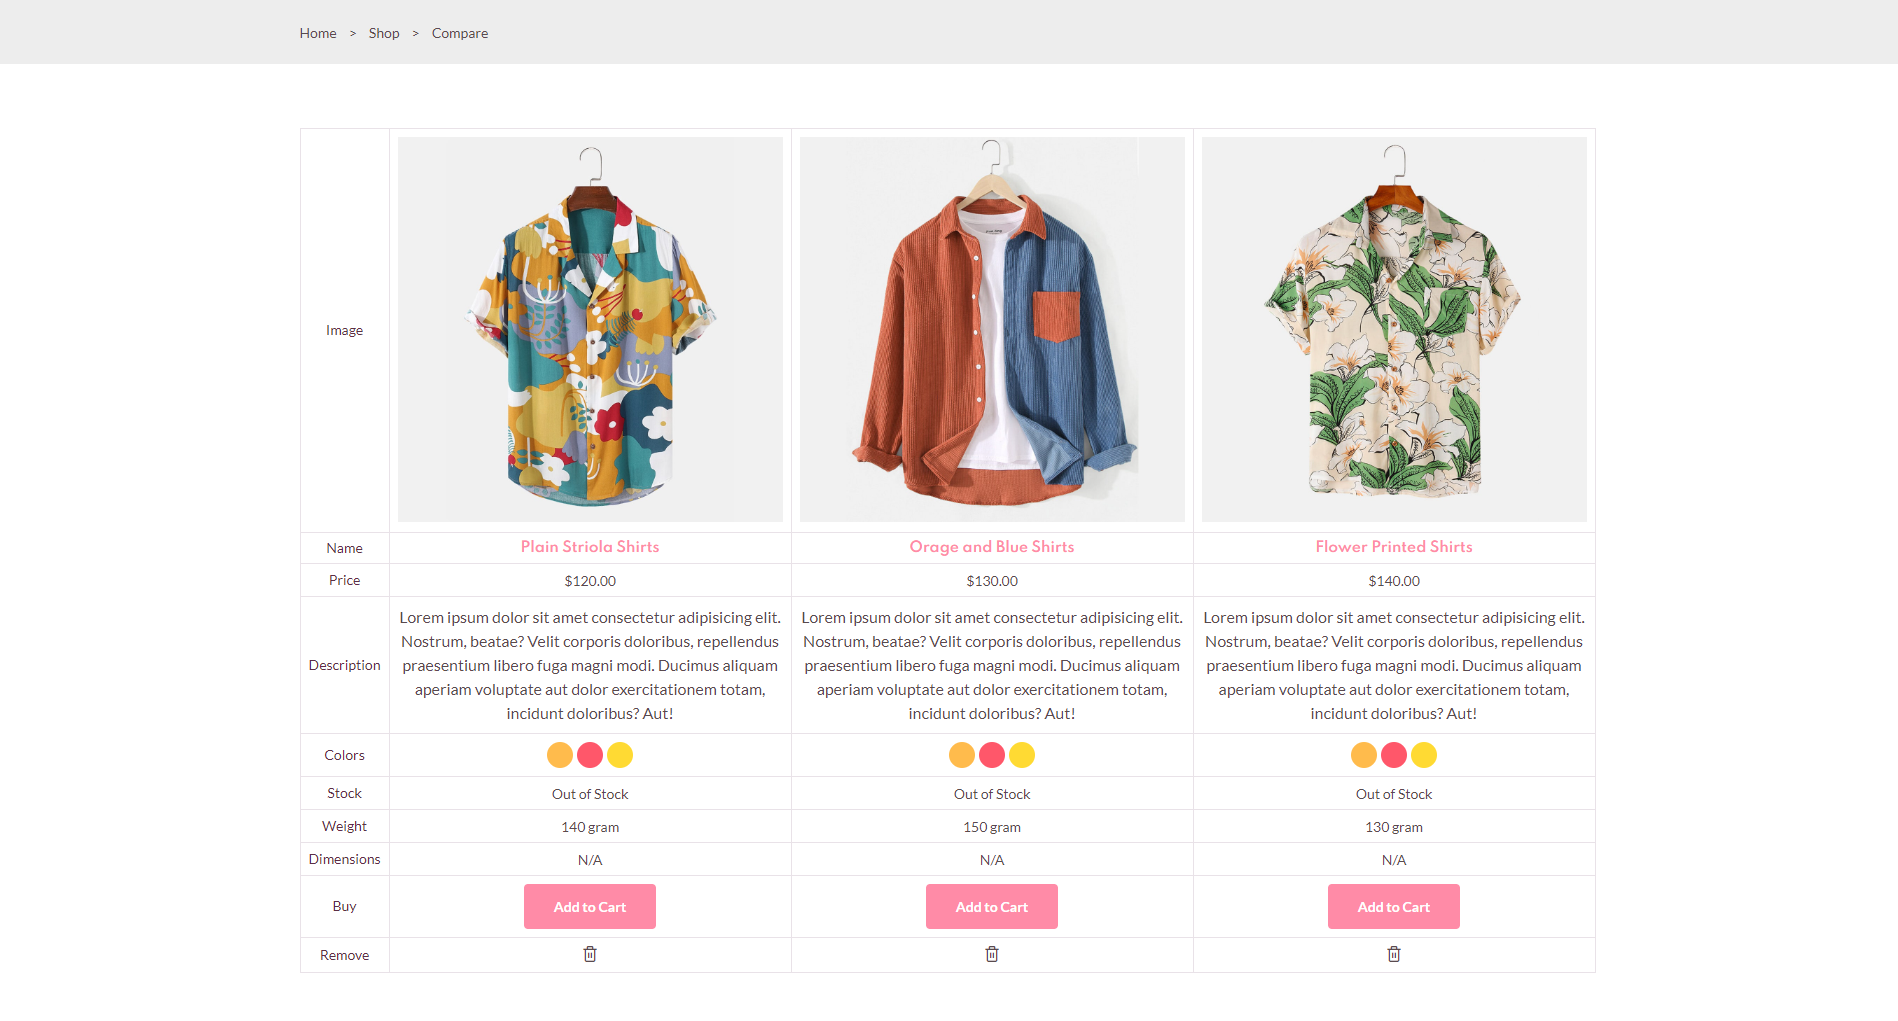
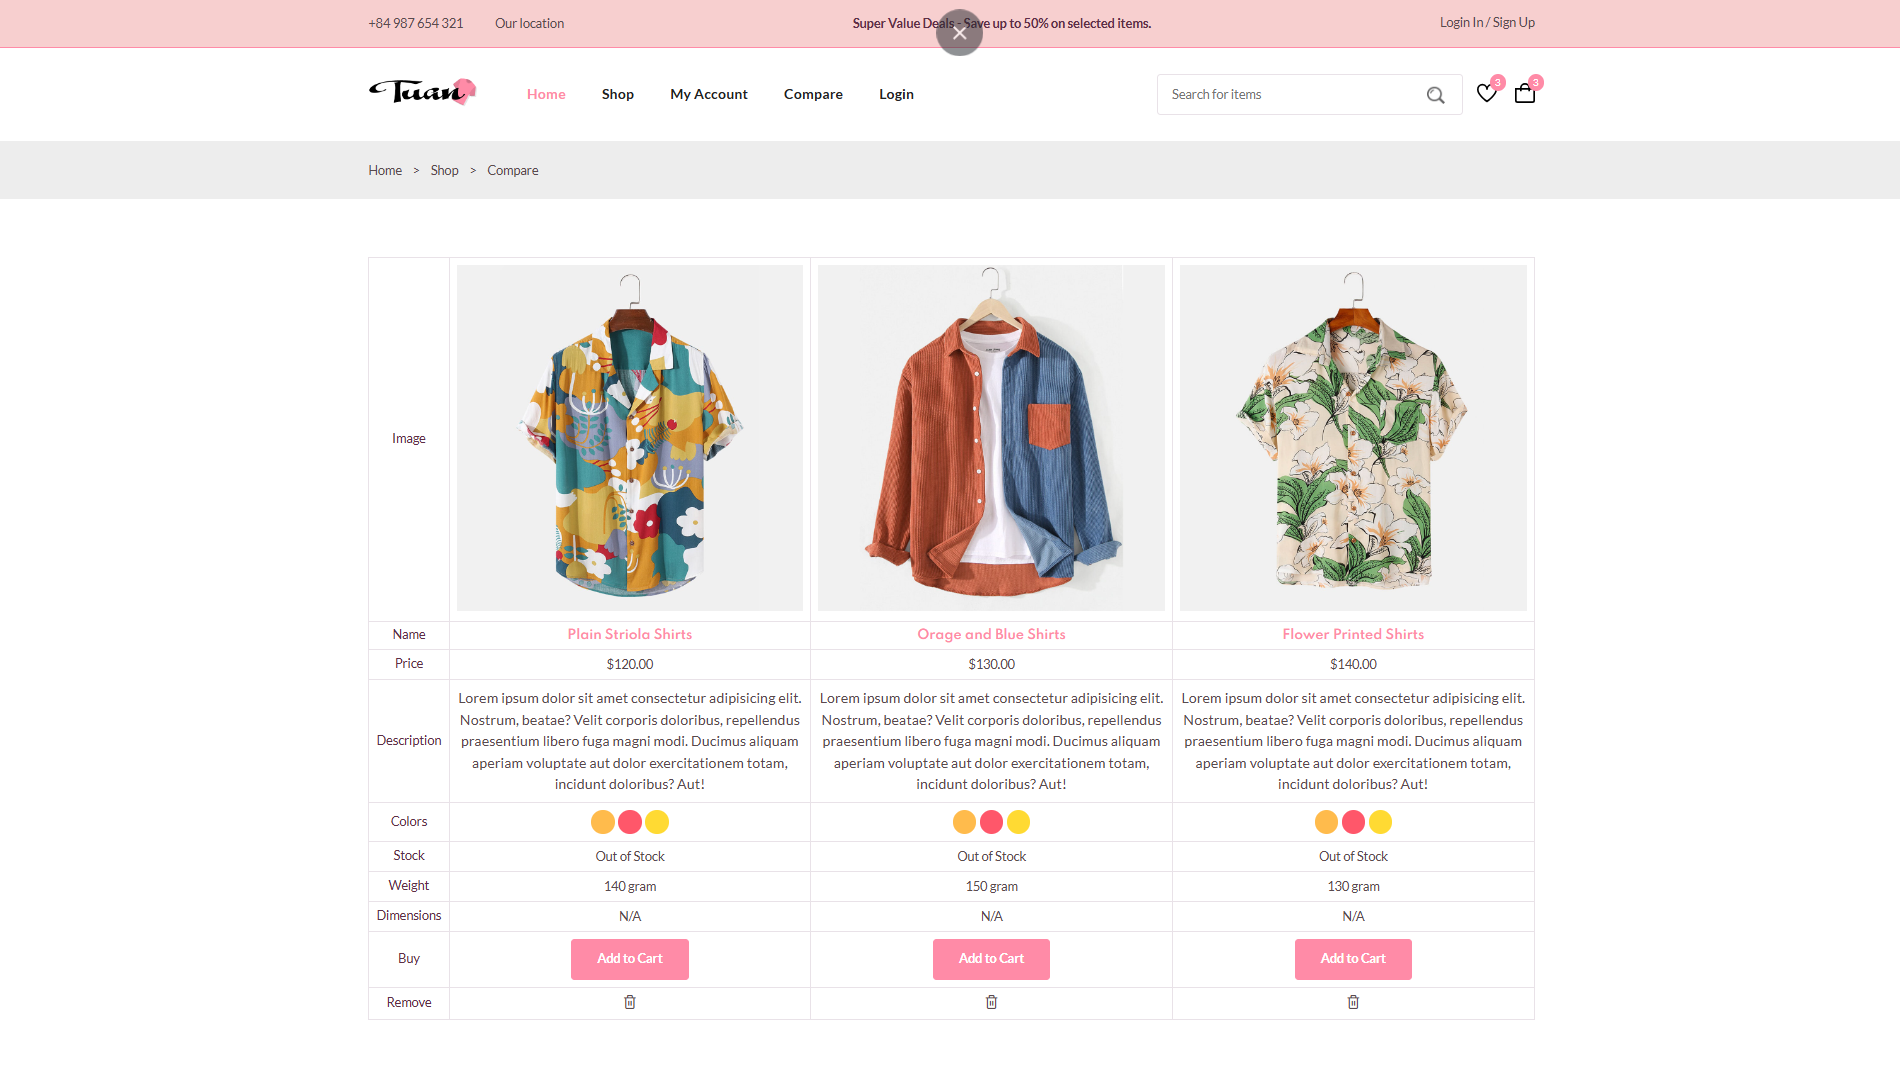
completed project

diff --git a/index.html b/index.html
@@ -42,12 +42,12 @@
       </div>
       <nav class="nav container">
         <a href="index.html" class="nav__logo">
-          <img src="assets/img/logo.svg" alt="logo" class="nav__logo-img" />
+          <img src="assets/img/logo.png" alt="logo" class="nav__logo-img" />
         </a>
         <div class="nav__menu" id="nav-menu">
           <div class="nav__menu-top">
             <a href="" class="nav__menu-logo">
-              <img src="assets/img/logo.svg" alt="" />
+              <img src="assets/img/logo.png" alt="" />
             </a>
             <div class="nav__close" id="nav-close">
               <i class="fi fi-rs-cross-small"></i>
@@ -2441,7 +2441,7 @@
         <div class="footer__content">
           <a href="index.html" class="footer__logo">
             <img
-              src="assets/img/logo.svg"
+              src="assets/img/logo.png"
               alt="logo"
               class="footer__logo-img"
             />

diff --git a/accounts.html b/accounts.html
@@ -42,12 +42,12 @@
       </div>
       <nav class="nav container">
         <a href="index.html" class="nav__logo">
-          <img src="assets/img/logo.svg" alt="logo" class="nav__logo-img" />
+          <img src="assets/img/logo.png" alt="logo" class="nav__logo-img" />
         </a>
         <div class="nav__menu" id="nav-menu">
           <div class="nav__menu-top">
             <a href="" class="nav__menu-logo">
-              <img src="assets/img/logo.svg" alt="" />
+              <img src="assets/img/logo.png" alt="" />
             </a>
             <div class="nav__close" id="nav-close">
               <i class="fi fi-rs-cross-small"></i>
@@ -280,7 +280,7 @@
         <div class="footer__content">
           <a href="index.html" class="footer__logo">
             <img
-              src="assets/img/logo.svg"
+              src="assets/img/logo.png"
               alt="logo"
               class="footer__logo-img"
             />

diff --git a/cart.html b/cart.html
@@ -42,12 +42,12 @@
       </div>
       <nav class="nav container">
         <a href="index.html" class="nav__logo">
-          <img src="assets/img/logo.svg" alt="logo" class="nav__logo-img" />
+          <img src="assets/img/logo.png" alt="logo" class="nav__logo-img" />
         </a>
         <div class="nav__menu" id="nav-menu">
           <div class="nav__menu-top">
             <a href="" class="nav__menu-logo">
-              <img src="assets/img/logo.svg" alt="" />
+              <img src="assets/img/logo.png" alt="" />
             </a>
             <div class="nav__close" id="nav-close">
               <i class="fi fi-rs-cross-small"></i>
@@ -309,7 +309,7 @@
         <div class="footer__content">
           <a href="index.html" class="footer__logo">
             <img
-              src="assets/img/logo.svg"
+              src="assets/img/logo.png"
               alt="logo"
               class="footer__logo-img"
             />

diff --git a/checkout.html b/checkout.html
@@ -42,12 +42,12 @@
       </div>
       <nav class="nav container">
         <a href="index.html" class="nav__logo">
-          <img src="assets/img/logo.svg" alt="logo" class="nav__logo-img" />
+          <img src="assets/img/logo.png" alt="logo" class="nav__logo-img" />
         </a>
         <div class="nav__menu" id="nav-menu">
           <div class="nav__menu-top">
             <a href="" class="nav__menu-logo">
-              <img src="assets/img/logo.svg" alt="" />
+              <img src="assets/img/logo.png" alt="" />
             </a>
             <div class="nav__close" id="nav-close">
               <i class="fi fi-rs-cross-small"></i>
@@ -262,7 +262,7 @@
         <div class="footer__content">
           <a href="index.html" class="footer__logo">
             <img
-              src="assets/img/logo.svg"
+              src="assets/img/logo.png"
               alt="logo"
               class="footer__logo-img"
             />

diff --git a/compare.html b/compare.html
@@ -42,12 +42,12 @@
       </div>
       <nav class="nav container">
         <a href="index.html" class="nav__logo">
-          <img src="assets/img/logo.svg" alt="logo" class="nav__logo-img" />
+          <img src="assets/img/logo.png" alt="logo" class="nav__logo-img" />
         </a>
         <div class="nav__menu" id="nav-menu">
           <div class="nav__menu-top">
             <a href="" class="nav__menu-logo">
-              <img src="assets/img/logo.svg" alt="" />
+              <img src="assets/img/logo.png" alt="" />
             </a>
             <div class="nav__close" id="nav-close">
               <i class="fi fi-rs-cross-small"></i>
@@ -331,7 +331,7 @@
         <div class="footer__content">
           <a href="index.html" class="footer__logo">
             <img
-              src="assets/img/logo.svg"
+              src="assets/img/logo.png"
               alt="logo"
               class="footer__logo-img"
             />

diff --git a/details.html b/details.html
@@ -42,12 +42,12 @@
       </div>
       <nav class="nav container">
         <a href="index.html" class="nav__logo">
-          <img src="assets/img/logo.svg" alt="logo" class="nav__logo-img" />
+          <img src="assets/img/logo.png" alt="logo" class="nav__logo-img" />
         </a>
         <div class="nav__menu" id="nav-menu">
           <div class="nav__menu-top">
             <a href="" class="nav__menu-logo">
-              <img src="assets/img/logo.svg" alt="" />
+              <img src="assets/img/logo.png" alt="" />
             </a>
             <div class="nav__close" id="nav-close">
               <i class="fi fi-rs-cross-small"></i>
@@ -676,7 +676,7 @@
         <div class="footer__content">
           <a href="index.html" class="footer__logo">
             <img
-              src="assets/img/logo.svg"
+              src="assets/img/logo.png"
               alt="logo"
               class="footer__logo-img"
             />

diff --git a/login-register.html b/login-register.html
@@ -42,12 +42,12 @@
       </div>
       <nav class="nav container">
         <a href="index.html" class="nav__logo">
-          <img src="assets/img/logo.svg" alt="logo" class="nav__logo-img" />
+          <img src="assets/img/logo.png" alt="logo" class="nav__logo-img" />
         </a>
         <div class="nav__menu" id="nav-menu">
           <div class="nav__menu-top">
             <a href="" class="nav__menu-logo">
-              <img src="assets/img/logo.svg" alt="" />
+              <img src="assets/img/logo.png" alt="" />
             </a>
             <div class="nav__close" id="nav-close">
               <i class="fi fi-rs-cross-small"></i>
@@ -182,7 +182,7 @@
         <div class="footer__content">
           <a href="index.html" class="footer__logo">
             <img
-              src="assets/img/logo.svg"
+              src="assets/img/logo.png"
               alt="logo"
               class="footer__logo-img"
             />

diff --git a/shop.html b/shop.html
@@ -42,12 +42,12 @@
       </div>
       <nav class="nav container">
         <a href="index.html" class="nav__logo">
-          <img src="assets/img/logo.svg" alt="logo" class="nav__logo-img" />
+          <img src="assets/img/logo.png" alt="logo" class="nav__logo-img" />
         </a>
         <div class="nav__menu" id="nav-menu">
           <div class="nav__menu-top">
             <a href="" class="nav__menu-logo">
-              <img src="assets/img/logo.svg" alt="" />
+              <img src="assets/img/logo.png" alt="" />
             </a>
             <div class="nav__close" id="nav-close">
               <i class="fi fi-rs-cross-small"></i>
@@ -816,7 +816,7 @@
         <div class="footer__content">
           <a href="index.html" class="footer__logo">
             <img
-              src="assets/img/logo.svg"
+              src="assets/img/logo.png"
               alt="logo"
               class="footer__logo-img"
             />

diff --git a/wishlist.html b/wishlist.html
@@ -41,12 +41,12 @@
       </div>
       <nav class="nav container">
         <a href="index.html" class="nav__logo">
-          <img src="assets/img/logo.svg" alt="logo" class="nav__logo-img" />
+          <img src="assets/img/logo.png" alt="logo" class="nav__logo-img" />
         </a>
         <div class="nav__menu" id="nav-menu">
           <div class="nav__menu-top">
             <a href="" class="nav__menu-logo">
-              <img src="assets/img/logo.svg" alt="" />
+              <img src="assets/img/logo.png" alt="" />
             </a>
             <div class="nav__close" id="nav-close">
               <i class="fi fi-rs-cross-small"></i>
@@ -223,7 +223,7 @@
         <div class="footer__content">
           <a href="index.html" class="footer__logo">
             <img
-              src="assets/img/logo.svg"
+              src="assets/img/logo.png"
               alt="logo"
               class="footer__logo-img"
             />
